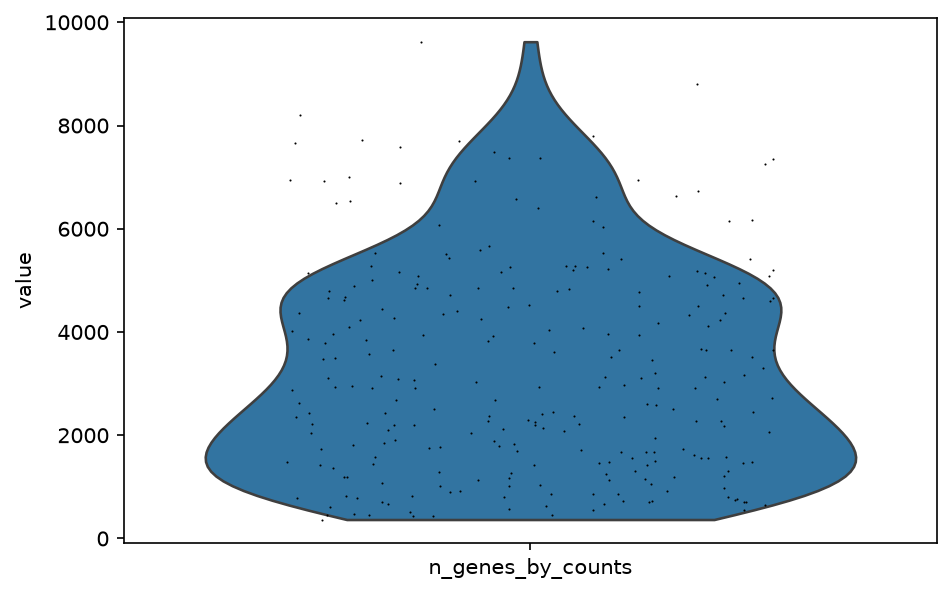
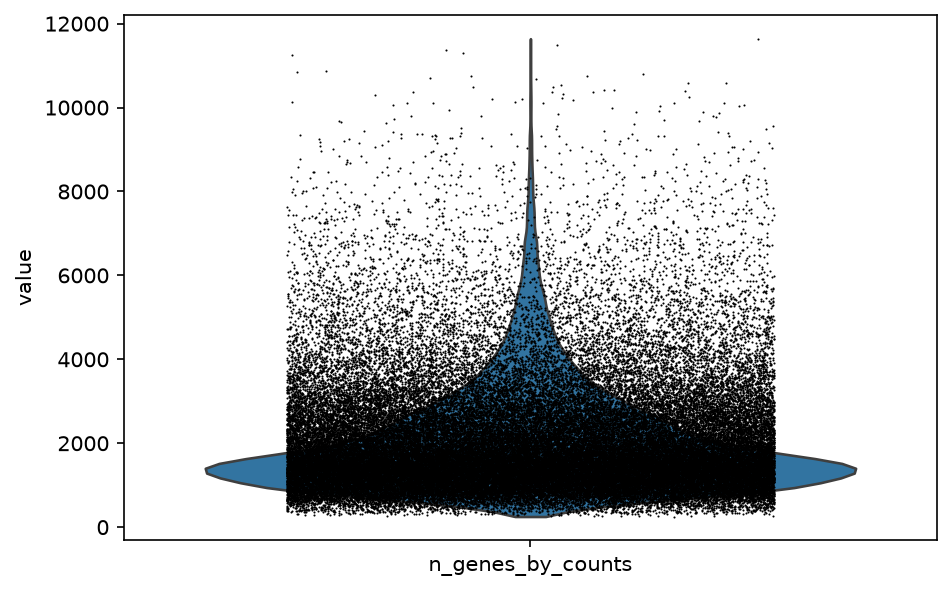
Configure pipeline for full prostate dataset (68k cells)

diff --git a/scripts/05_load_to_db.py b/scripts/05_load_to_db.py
@@ -1,6 +1,9 @@
-import scanpy as sc
-import pandas as pd
+import subprocess
+from datetime import datetime
+
 import duckdb
+import pandas as pd
+import scanpy as sc
 import yaml
 from datetime import datetime
 
@@ -8,18 +11,32 @@ from datetime import datetime
 adata = sc.read_h5ad("data/04_annotated.h5ad")
 
 with open("config/genes.yaml") as f:
-    gene_names = yaml.safe_load(f)["genes"]
+    gene_ids = yaml.safe_load(f)["genes"]  # {"KLK3": "ENSG...", "PCA3": "ENSG...", ...}
 
 con = duckdb.connect("databases/prostate.duckdb")
+
+# --- 0. Clear existing rows so this script can be re-run safely ---
+con.execute("DELETE FROM gene_expression_summary")
+con.execute("DELETE FROM clusters")
+con.execute("DELETE FROM qc_metrics")
+con.execute("DELETE FROM datasets")
+con.execute("DELETE FROM runs")
+
+# Load dataset metadata, QC thresholds, and clustering parameters from config instead of hardcoding them — this is what changes when we switch datasets
+with open("config/params.yaml") as f:
+    params = yaml.safe_load(f)
+d = params["dataset"]
+q = params["qc"]
+c = params["clustering"]
 
 # --- 1. datasets ---
 dataset_row = pd.DataFrame([{
     "id": 1,
-    "accession": "4d0a653a-291d-44f6-966d-c3a7f1f3bd09",
-    "n_cells_raw": 268,
+    "accession": d["accession"],
+    "n_cells_raw": d["n_cells_raw"],
     "n_cells_after_qc": adata.n_obs,
-    "download_date": "19/08/2026",
-    "source_url": "https://cellxgene.cziscience.com/collections/bdac7a53-fe34-4f04-8c46-f9bd5297c099"
+    "download_date": d["download_date"],
+    "source_url": d["source_url"],
 }])
 con.execute("INSERT INTO datasets SELECT * FROM dataset_row")
 
@@ -27,10 +44,12 @@ con.execute("INSERT INTO datasets SELECT * FROM dataset_row")
 qc_row = pd.DataFrame([{
     "id": 1,
     "dataset_id": 1,
-    "min_genes_threshold": 500,
-    "max_pct_mt_threshold": 20.0,
-    "cells_removed": 8,
-    "pct_removed": 3.0,
+    "min_genes_threshold": q["min_genes"],
+    "max_pct_mt_threshold": q["max_pct_mt"],
+    # cells_removed / pct_removed are derived, not stored in config,
+    # so they stay correct automatically for any dataset size
+    "cells_removed": d["n_cells_raw"] - adata.n_obs,
+    "pct_removed": round(100 * (d["n_cells_raw"] - adata.n_obs) / d["n_cells_raw"], 1),
 }])
 con.execute("INSERT INTO qc_metrics SELECT * FROM qc_row")
 
@@ -58,14 +77,18 @@ con.execute("INSERT INTO clusters SELECT * FROM clusters_df")
 # --- 4. gene_expression_summary ---
 expr_rows = []
 next_expr_id = 1
-for gene in gene_names:
+for gene, ensembl_id in gene_ids.items():
+    # adata.raw.var_names mixes Ensembl codes and gene symbols depending on the
+    # gene, so we look up the row by symbol to get expression values, but we
+    # always store the Ensembl ID from config/genes.yaml (verified on Ensembl),
+    # never whatever happens to be in the file's index.
     match = adata.raw.var.loc[adata.raw.var["feature_name"] == gene]
     if match.empty:
         print(f"Warning: {gene} not found, skipping")
         continue
-    gene_id = match.index[0]
+    row_key = match.index[0]  # used only to locate the column, not stored
 
-    values = adata.raw[:, gene_id].X
+    values = adata.raw[:, row_key].X
     values = values.toarray().flatten() if hasattr(values, "toarray") else values.flatten()
 
     for leiden_label in adata.obs["leiden"].cat.categories:
@@ -76,7 +99,7 @@ for gene in gene_names:
 
         expr_rows.append({
             "id": next_expr_id, "cluster_id": cluster_id_map[leiden_label],
-            "gene_symbol": gene, "ensembl_id": gene_id,
+            "gene_symbol": gene, "ensembl_id": ensembl_id,
             "pct_cells_expressing": pct_expr, "mean_expression": mean_expr,
         })
         next_expr_id += 1
@@ -85,13 +108,17 @@ expr_df = pd.DataFrame(expr_rows)
 con.execute("INSERT INTO gene_expression_summary SELECT * FROM expr_df")
 
 # --- 5. runs ---
+git_commit = subprocess.check_output(
+    ["git", "rev-parse", "--short", "HEAD"], text=True
+).strip()
+
 run_row = pd.DataFrame([{
     "id": 1,
     "timestamp": datetime.now().isoformat(timespec="seconds"),
-    "git_commit": None,               # TODO: fill with `git rev-parse --short HEAD`
+    "git_commit": git_commit,
     "scanpy_version": sc.__version__,
-    "n_pcs_used": 15,
-    "leiden_resolution": 1.0,
+    "n_pcs_used": c["n_pcs"],
+    "leiden_resolution": c["leiden_resolution"],
 }])
 con.execute("INSERT INTO runs SELECT * FROM run_row")
 

diff --git a/scripts/02_clean.py b/scripts/02_clean.py
@@ -1,8 +1,16 @@
 import scanpy as sc
-
+import yaml
 from utils import save_fig
 
 adata = sc.read_h5ad("data/01_loaded.h5ad")
+
+# Load pipeline parameters from a single config file instead of hardcoding values, so switching datasets only means editing the YAML, not the code
+with open("config/params.yaml") as f:
+    params = yaml.safe_load(f)
+
+# Apply the QC thresholds decided from the plots above
+min_genes = params["qc"]["min_genes"]
+max_pct_mt = params["qc"]["max_pct_mt"]
 
 # Recompute QC metrics on raw counts (X in this dataset holds processed values)
 adata.var["mt"] = adata.var["feature_name"].str.startswith("MT-")
@@ -22,8 +30,8 @@ save_fig(sc.pl.violin(adata, ["pct_counts_mt"], jitter=0.3, show=False), "violin
 # Apply the QC thresholds decided from the plots above
 n_before = adata.n_obs
 
-adata = adata[adata.obs["n_genes_by_counts"] >= 500, :]
-adata = adata[adata.obs["pct_counts_mt"] <= 20, :]
+adata = adata[adata.obs["n_genes_by_counts"] >= min_genes, :]
+adata = adata[adata.obs["pct_counts_mt"] <= max_pct_mt, :]
 
 n_after = adata.n_obs
 print(f"Cells before filtering: {n_before}")

diff --git a/scripts/04_annotate.py b/scripts/04_annotate.py
@@ -1,18 +1,24 @@
 import scanpy as sc
 import pandas as pd
-
+import yaml 
 from utils import save_fig
 
 adata = sc.read_h5ad("data/03_clustered.h5ad")
 
+with open("config/params.yaml") as f:
+    params = yaml.safe_load(f)
+
+n_pcs = params["clustering"]["n_pcs"]
+resolution = params["clustering"]["leiden_resolution"]
+
 # Build a neighborhood graph using the first 15 PCs chosen from the elbow plot
-sc.pp.neighbors(adata, n_pcs=15)
+sc.pp.neighbors(adata, n_pcs=n_pcs)
 
 # Compute UMAP coordinates for visualization
 sc.tl.umap(adata)
 
 # Cluster cells into groups based on their neighborhood graph
-sc.tl.leiden(adata, resolution=1.0, flavor="igraph", n_iterations=2, directed=False)
+sc.tl.leiden(adata, resolution=resolution, flavor="igraph", n_iterations=2, directed=False)
 
 # Visualize clusters alongside the cell types already annotated in this dataset
 ax = sc.pl.umap(adata, color=["leiden", "cell_type"], show=False)

diff --git a/scripts/06_query.py b/scripts/06_query.py
@@ -1,0 +1,29 @@
+import argparse
+import duckdb
+
+parser = argparse.ArgumentParser(description="Query gene expression by cell cluster")
+parser.add_argument("--gene", required=True, help="Gene symbol, e.g. PCA3")
+args = parser.parse_args()
+
+con = duckdb.connect("databases/prostate.duckdb")
+
+result = con.execute("""
+    SELECT
+        c.leiden_label,
+        c.dominant_cell_type,
+        c.n_cells AS cluster_size,
+        g.pct_cells_expressing,
+        g.mean_expression
+    FROM gene_expression_summary g
+    JOIN clusters c ON g.cluster_id = c.id
+    WHERE g.gene_symbol = ?
+    ORDER BY g.pct_cells_expressing DESC
+""", [args.gene]).fetchdf()
+
+con.close()
+
+if result.empty:
+    print(f"No data found for gene '{args.gene}'")
+else:
+    print(f"\nExpression of {args.gene} by cluster:\n")
+    print(result.to_string(index=False))

diff --git a/scripts/00_check_genes.py b/scripts/00_check_genes.py
@@ -1,11 +1,13 @@
 import scanpy as sc
 import yaml
 
-adata = sc.read_h5ad("data/data.h5ad")
-print(adata)
+with open("config/params.yaml") as f:
+    params = yaml.safe_load(f)
+
+adata = sc.read_h5ad(params["dataset"]["input_path"])
 
 with open("config/genes.yaml") as f:
-    ids = yaml.safe_load(f)
+    ids = yaml.safe_load(f)["genes"]
 
 genes = list(ids.keys())
 found = adata.var[adata.var["feature_name"].isin(genes)]

diff --git a/scripts/01_load.py b/scripts/01_load.py
@@ -1,6 +1,10 @@
 import scanpy as sc
+import yaml
 
-adata = sc.read_h5ad("data/data.h5ad")
+with open("config/params.yaml") as f:
+    params = yaml.safe_load(f)
+
+adata = sc.read_h5ad(params["dataset"]["input_path"])
 
 # Use gene symbols instead of Ensembl IDs as var_names, so downstream
 # scripts can reference genes of interest (KLK3, PCA3...) directly.
